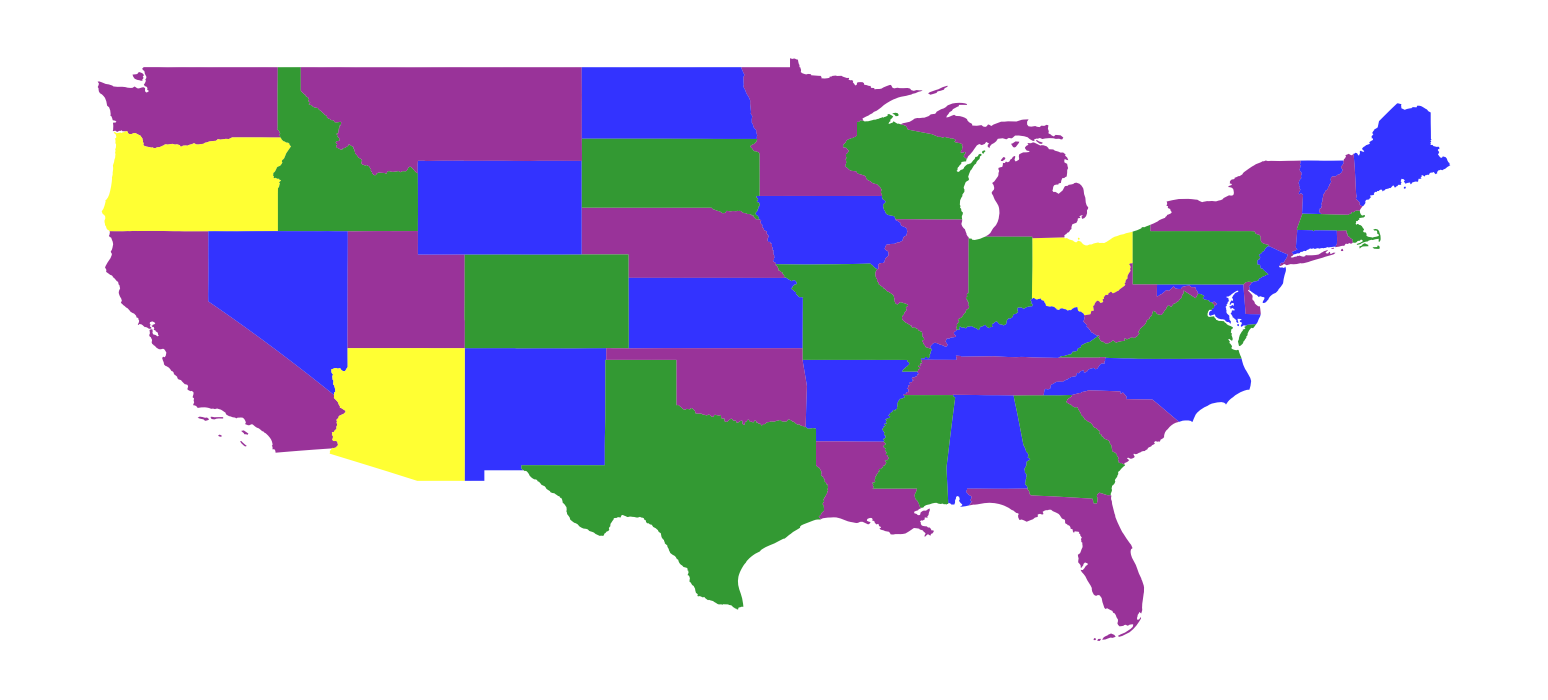
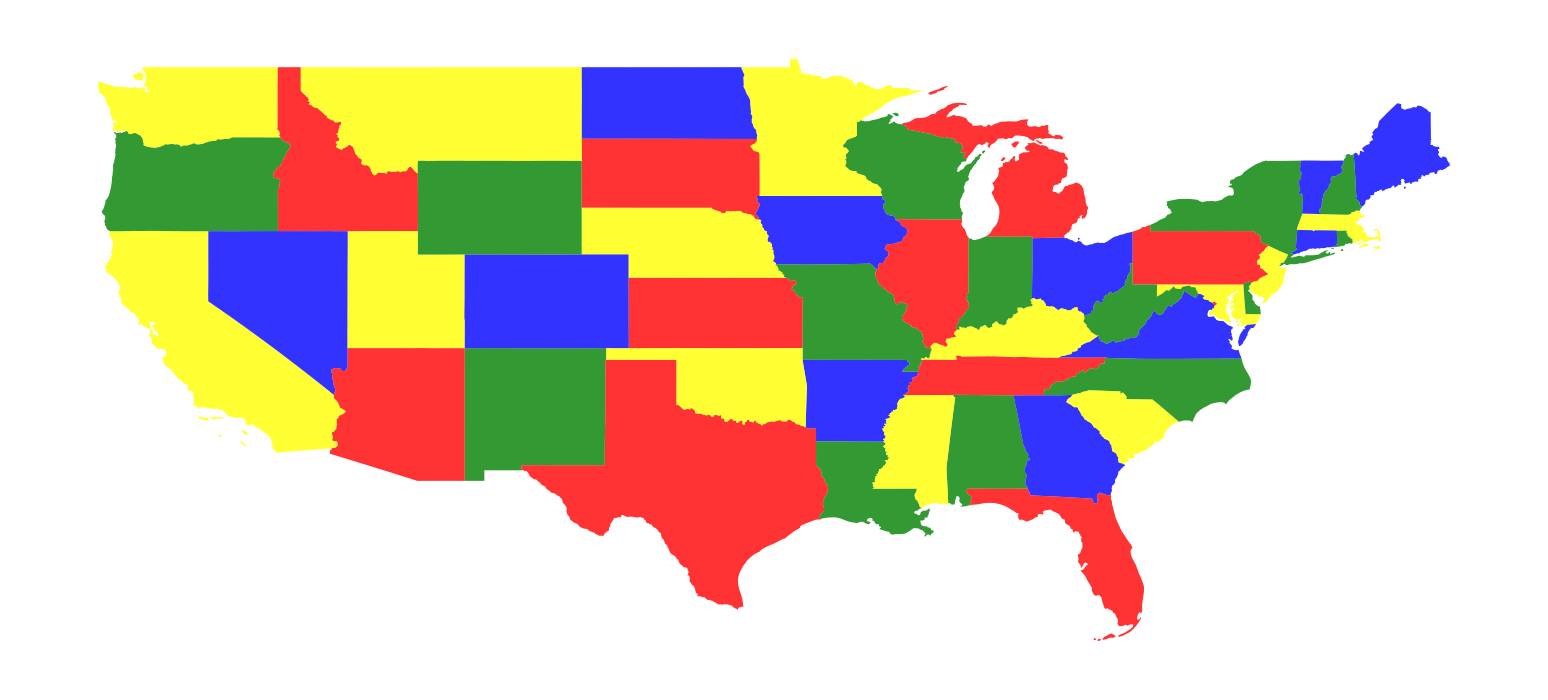
Address feedback

diff --git a/map_coloring.py b/map_coloring.py
@@ -77,28 +77,21 @@ def build_cqm(G, num_colors):
     # Initialize the CQM object
     cqm = ConstrainedQuadraticModel()
 
-    # Build the objective: sum all colors values
-    obj = BinaryQuadraticModel('BINARY')
-    for n in G.nodes():
-        for i in range(num_colors):
-            obj.set_linear((n,i), i)
-    cqm.set_objective(obj)
-
     # Add constraint to make variables discrete
     for n in G.nodes():
-        cqm.add_discrete([(n,i) for i in range(num_colors)])
+        cqm.add_discrete([(n, i) for i in range(num_colors)])
   
     # Build the constraints: edges have different color end points
     for u, v in G.edges:
         for i in range(num_colors):
             c = BinaryQuadraticModel('BINARY')
-            c.set_quadratic((u,i),(v,i),1)
+            c.set_quadratic((u, i), (v, i), 1)
             cqm.add_constraint(c == 0)
 
     return cqm
 
 def run_hybrid_solver(cqm):
-    """Solve CQM using hybrid solver through the cloud."""
+    """Solve CQM using LeapHybridCQMSampler through the cloud."""
 
     print("\nRunning hybrid sampler...")
 
@@ -109,9 +102,13 @@ def run_hybrid_solver(cqm):
     sampleset = sampler.sample_cqm(cqm, label='Example - Map Coloring')
     feasible_sampleset = sampleset.filter(lambda row: row.is_feasible)
 
-    ss = feasible_sampleset.first.sample
+    try:
+        sample = feasible_sampleset.first.sample
+    except:
+        print("\nNo feasible solutions found.")
+        exit()
 
-    soln = {key[0]: key[1] for key, val in ss.items() if val == 1.0}
+    soln = {key[0]: key[1] for key, val in sample.items() if val == 1.0}
 
     return soln
 
@@ -164,8 +161,8 @@ if __name__ == "__main__":
 
     G = build_graph(state_neighbors)
 
-    colors = ['purple', 'blue', 'green', 'yellow', 'orange', 'red', 'grey']
-    num_colors = len(colors)
+    colors = ['red', 'blue', 'green', 'yellow']
+    num_colors = 4
 
     cqm = build_cqm(G, num_colors)
 
@@ -174,4 +171,4 @@ if __name__ == "__main__":
     plot_map(sample, state_records, colors)
 
     colors_used = max(sample.values())+1
-    print("\nColors required:", colors_used, "\n")
+    print("\nColors used:", colors_used, "\n")

diff --git a/graph_coloring.py b/graph_coloring.py
@@ -32,7 +32,6 @@ def build_graph(num_nodes):
     pos = nx.spring_layout(G)
     nx.draw(G, pos=pos, node_size=50, edgecolors='k', cmap='hsv')
     plt.savefig("original_graph.png")
-    plt.clf()
 
     return G, pos
 
@@ -45,14 +44,11 @@ def build_cqm(G, num_colors):
     cqm = ConstrainedQuadraticModel()
 
     # Build CQM variables
-    colors = {n: {c: Binary((n,c)) for c in range(num_colors)} for n in G.nodes}
-
-    # Build the objective: sum all colors values
-    cqm.set_objective(quicksum([c*colors[n][c] for n in G.nodes for c in range(num_colors)]))
+    colors = {n: {c: Binary((n, c)) for c in range(num_colors)} for n in G.nodes}
 
     # Add constraint to make variables discrete
     for n in G.nodes():
-        cqm.add_discrete([(n,c) for c in range(num_colors)])
+        cqm.add_discrete([(n, c) for c in range(num_colors)])
   
     # Build the constraints: edges have different color end points
     for u, v in G.edges:
@@ -73,9 +69,13 @@ def run_hybrid_solver(cqm):
     sampleset = sampler.sample_cqm(cqm, label='Example - Graph Coloring')
     feasible_sampleset = sampleset.filter(lambda row: row.is_feasible)
 
-    ss = feasible_sampleset.first.sample
+    try:
+        sample = feasible_sampleset.first.sample
+    except:
+        print("\nNo feasible solutions found.")
+        exit()
 
-    soln = {key[0]: key[1] for key, val in ss.items() if val == 1.0}
+    soln = {key[0]: key[1] for key, val in sample.items() if val == 1.0}
 
     return soln
 
@@ -103,10 +103,10 @@ def plot_soln(sample, pos):
 # ------- Main program -------
 if __name__ == "__main__":
 
-    num_colors = 7
     num_nodes = 50
 
     G, pos = build_graph(num_nodes)
+    num_colors = max(d for _, d in G.degree())-1
 
     cqm = build_cqm(G, num_colors)
 
@@ -115,4 +115,4 @@ if __name__ == "__main__":
     plot_soln(sample, pos)
 
     colors_used = max(sample.values())+1
-    print("\nColors required:", colors_used, "\n")
+    print("\nColors used:", colors_used, "\n")

diff --git a/README.md b/README.md
@@ -1,3 +1,7 @@
+[![Linux/Mac/Windows build status](
+   https://circleci.com/gh/dwave-examples/graph-coloring.svg?style=svg)](
+   https://circleci.com/gh/dwave-examples/graph-coloring)
+
 # Graph Coloring
 
 A demo of graph coloring using Leap's hybrid constrained quadratic model (CQM)
@@ -5,14 +9,13 @@ solver.
 
 ![Original Plot](readme_imgs/not_color_yet.png)
 
-Figure: The graph that we want to color with no neighboring nodes the same.
+Figure: The graph that we want to color with no neighboring nodes the same color.
 
 We want to color this graph so that no neighboring nodes have the same color.
-This is a well-known hard problem (https://en.wikipedia.org/wiki/Graph_coloring)
-and an alternative formulation is available in this Collection of Code Examples
-(https://github.com/dwave-examples/map-coloring). In this example, we formulate
-this problem as a constrained quadratic model (CQM) and solve it using the
-hybrid CQM solver.
+[Graph coloring](https://en.wikipedia.org/wiki/Graph_coloring) is a well-known hard problem and an alternative formulation is
+available in this collection of code examples (see [Map Coloring](https://github.com/dwave-examples/map-coloring)). In this example,
+we formulate this problem as a constrained quadratic model (CQM) and solve it
+using the hybrid CQM solver.
 
 ## Usage
 
@@ -44,21 +47,16 @@ below.
 ## Code Overview
 
 The hybrid CQM solver accepts problems expressed in terms of a
-ConstrainedQuadraticModel object. A CQM consists of an objective and constraints, both formulated in this example as Binary Quadratic Models (BQMs).
+ConstrainedQuadraticModel object. A CQM consists of an objective and/or
+constraints, both formulated as Quadratic Models (BQMs). In this model, the
+problem is formulated as a constraint satisfaction problem and does not have an
+objective.
 
-For this problem, define binary variables as ordered pairs (node, color). For
+In this problem, we define binary variables as ordered pairs (node, color). For
 example, the pair `(1, 2)` corresponds to node 1 and color 2. In the map
 coloring example, the pair will look like `('Maryland', 0)` to indicate that
 the state of Maryland should be colored with color 0 in the USA map. If
 variable `(n, i)` equals 1 then we assign node `n` color `i`.
-
-### Objective
-
-We set the objective in order to use as few colors as possible. We assume a
-very simple relationship: variable `(node, k)` is given a coefficient of k in
-our objective function. This will encourage the solver to use the lowest
-numbered colors as much as possible by minimizing the overall number of colors
-used.
 
 ### Constraints
 
@@ -66,21 +64,21 @@ In this example, we have two groups of constraints.
 
 #### Discrete Constraints
 
-We defined our CQM using binary variables `(n, i)` to indicate assigning color
-`i` to node `n`. Since each node must be assigned exactly one color, we need to
-add a set of discrete constraints: one for each node `n`.
+Since each node must be assigned exactly one color, we need a set of discrete
+constraints: one constraint for each node `n` so that it is assigned exactly
+one color.
 
 #### Edge Constraints
 
 Our assignment of colors to nodes must satisfy the constraint that no edge has
 endpoints with the same color. In terms of map coloring, this is equivalent to
-no adjacent region having the same color assigned.
+the constraint that no adjacent regions having the same colors assigned.
 
-To build this constraint, we consider each edge `(u,v)` independently, and each
-possible color independently as well. For edge `(u,v)` and color `i`, we want
-to ensure that binary variables `(u,i)` and `(v,i)` are not both equal to 1.
-All other combinations are acceptable. We can determine an expression for this
-using a truth table, as shown below.
+To build this constraint, we consider each edge `(u, v)` independently, and
+each possible color independently as well. For edge `(u, v)` and color `i`, we
+want to ensure that binary variables `(u, i)` and `(v, i)` are not both equal
+to 1. All other combinations are acceptable. We can determine an expression for
+this using a truth table, as shown below.
 
 |`(u,i)`|`(v,i)`|Acceptable?|
 |-----|------|-----|
